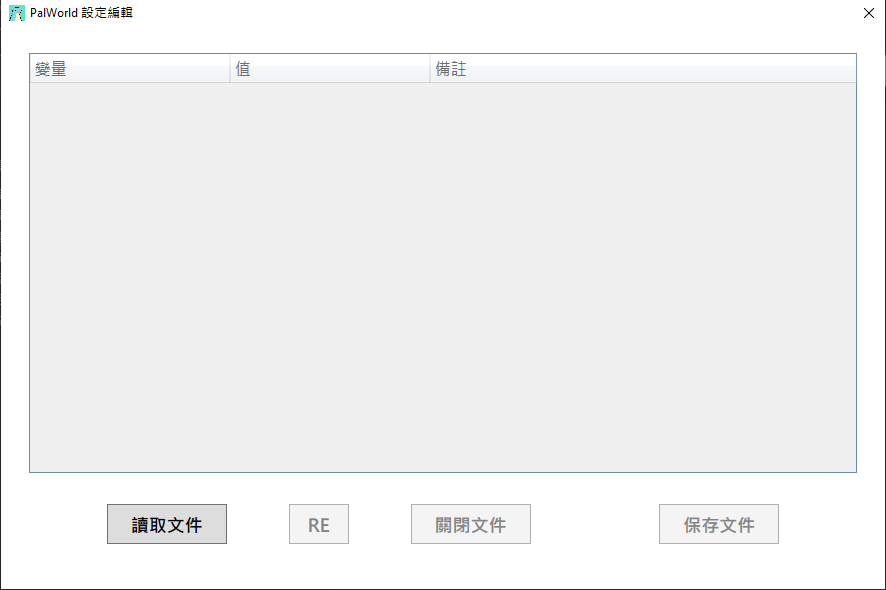
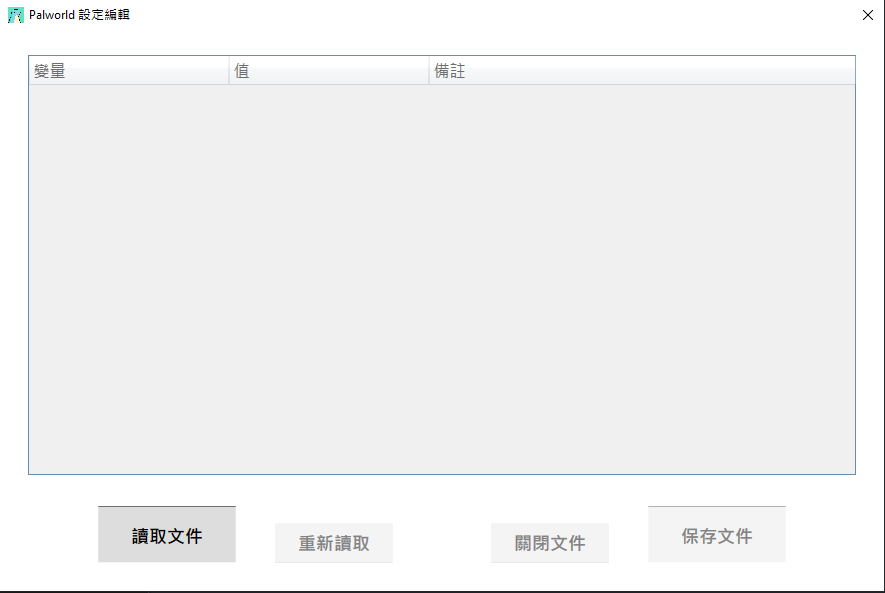
Upload the required files and the modified README.

diff --git a/README_EN.md b/README_EN.md
@@ -8,54 +8,52 @@
 
 # Functionality
 
-**A01: If English comments are needed, please rename `Remark_EN.json` to `Remark.json`.
-	`Remark_EN.json` translation is provided by ChatGPT.**
+- **A01:**
+  
+  - **If English comments are needed, please rename `Remark_EN.json` to `Remark.json`.**
+  
+  - **`Remark_EN.json` translation is provided by `ChatGPT`.**
 
-
-
-**A02: The language used in the program is `Traditional Chinese`.
-    If you need English, please construct the `EXE executable file` yourself. Basic proficiency   	in C# and familiarity   with basic operations in Visual Studio (developed using 2022) are    	required.**
-
-
-
+- **A02:**
+  
+  - ~~**The language used in the program is `Traditional Chinese`.**~~
+  
+  - ~~**If you need English, please construct the `EXE executable file` yourself. Basic proficiency in C# and familiarity with basic operations in Visual Studio (developed using 2022) are required.**~~
+  
+  - **Please select the language file `I18n.json`/`I18n_EN.json` yourself.
+    If not, please translate it on your own, and make sure the file name is `I18n.json`.**
 * ### GUI Intuitive Edit Settings File
 
 * ### **GUI Remarks on variables**
 
-* ![img03](./Images/img03.png)
+* ![img03](./Images/img03_EN.png)
 
 * ### Picture Functions
-
+  
   - ##### **(1) Value editing box**
   
-  - ##### **(2) Read the file (please directly select the directory where PalWorldSettings.ini can be automatically obtained)**
+  - ##### **(2) Read the file (please directly select the directory where `PalWorldSettings.ini` can be automatically obtained)**
   
   - **(3) Read the file status, if editing error, you can directly re-read the original value**
   
   - ##### **(4) Close the file (without saving)**
   
   - ##### **(5) Save the file and close it**
-  
-    
-  
 
 ------
 
 # Pictures
 
-![img01](./Images/img01.png)
+![img01](./Images/img01_EN.png)
 
-![img02](./Images/img02.png)
-
-
+![img02](./Images/img02_EN.png)
 
 ------
 
 # Source of information
 
-#### **Regarding the comment data in the Remark.json file, the following is available**
+#### **Regarding the comment data in the `Remark.json` file, the following is available**
 
 - [Palworld tech guide - Optimize game balance (palworldgame.com)](https://tech.palworldgame.com/optimize-game-balance)
 
 - [【討論】伺服器參數難度調整分享 @幻獸帕魯 哈啦板 - 巴哈姆特 (gamer.com.tw)](https://forum.gamer.com.tw/C.php?bsn=71458&snA=227)
-

diff --git a/README.md b/README.md
@@ -10,16 +10,21 @@
 
 # 功能特點
 
-**A01: 如果是需要英文備註請將 `Remark_EN.json` 重新命名為 `Remark.json`
-	`Remark_EN.json` 翻譯來自 ChatGPT**
+- **A01:**
+  
+  - **如果是需要英文備註請將 `Remark_EN.json` 重新命名為 `Remark.json`**
+  
+  - `Remark_EN.json` 翻譯來自 ``ChatGPT``
 
-
-
-**A02: 程式中的語言為 `繁體中文` 如果需要英文請自行建構 `EXE執行文件`
-	 需要對 C# 有基本能力以及 Visual Studio 的基本操作 (開發使用 2022)**
-
-
-
+- **A02:**
+  
+  - ~~**程式中的語言為 `繁體中文`**~~
+  
+  - ~~**如果需要英文請自行建構 `EXE執行文件` 需要對 C# 有基本能力以及 Visual Studio 的基本操作 (開發使用 2022)**~~
+  
+  - **請自行選擇語言文件 `I18n.json`/`I18n_EN.json`**
+  
+  - **如果沒有請自行翻譯只要檔案名稱是 `I18n.json` 即可**
 * ### **GUI 直覺 編輯設定文件**
 
 * ### **GUI 將變量備註**
@@ -27,18 +32,16 @@
 * ![img03](./Images/img03.png)
 
 * ### 圖片功能介紹
-
-  - ##### **(1) 數值編輯框**
-
-  - ##### **(2) 讀取文件 (請直接選擇 PalWorldSettings.ini 所在目錄即可自動獲取)**
-
-  - ##### **(3) 已讀取文件狀態, 如果編輯錯誤可以直接重新讀取原數值**
-
-  - ##### **(4) 關閉文件 (不保存)**
-
-  - ##### **(5) 保存文件並關閉文件**
-
   
+  - ##### **(1) 數值編輯框**
+  
+  - ##### **(2) 讀取文件 (請直接選擇 `PalWorldSettings.ini` 所在目錄即可自動獲取)**
+  
+  - ##### **(3) 已讀取文件狀態, 如果編輯錯誤可以直接重新讀取原數值**
+  
+  - ##### **(4) 關閉文件 (不保存)**
+  
+  - ##### **(5) 保存文件並關閉文件**
 
 # 圖片介紹
 
@@ -46,11 +49,9 @@
 
 ![img02](./Images/img02.png)
 
-
-
 # 資料來源
 
-#### **關於 Remark.json 文件中的備註資料下列**
+#### **關於 `Remark.json`文件中的備註資料下列**
 
 - [Palworld tech guide - Optimize game balance (palworldgame.com)](https://tech.palworldgame.com/optimize-game-balance)
 
